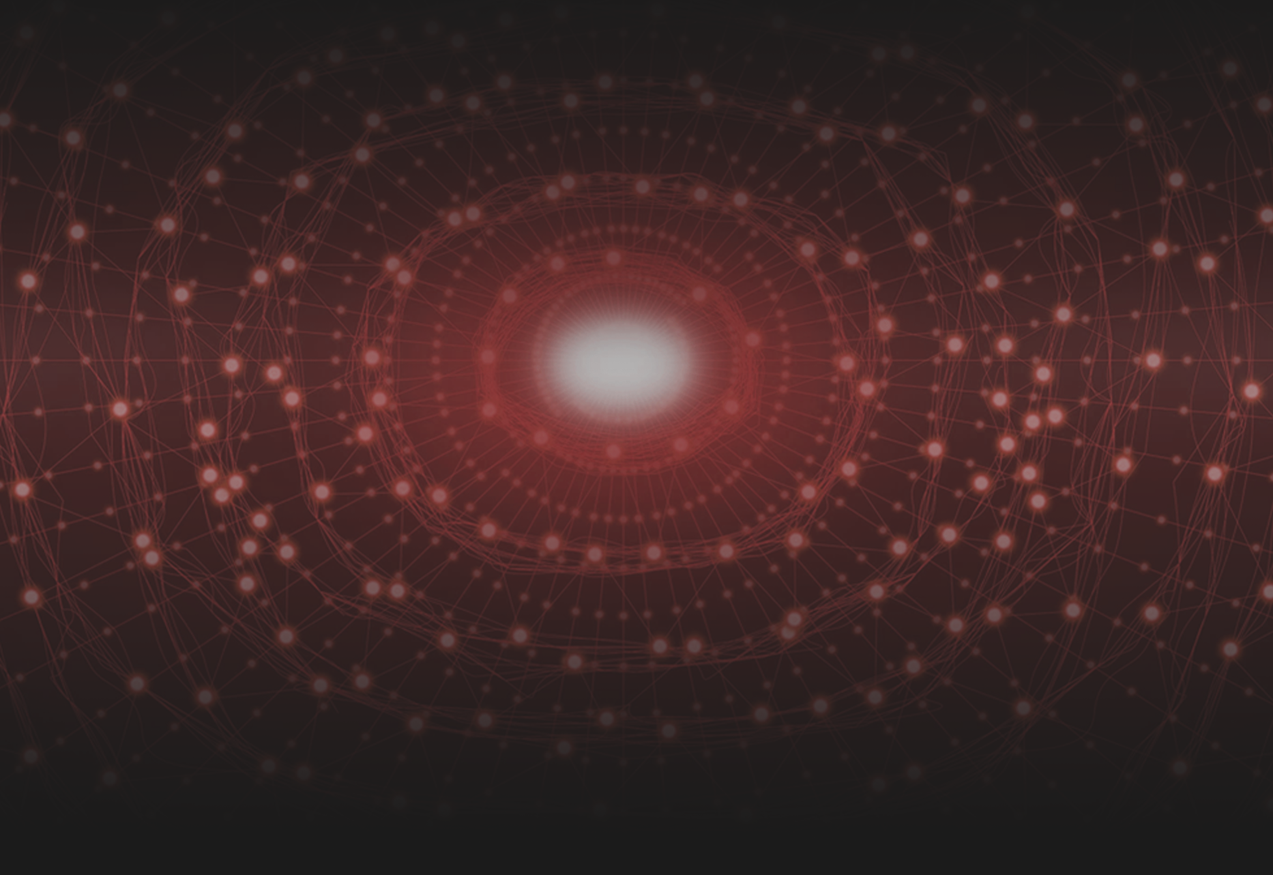
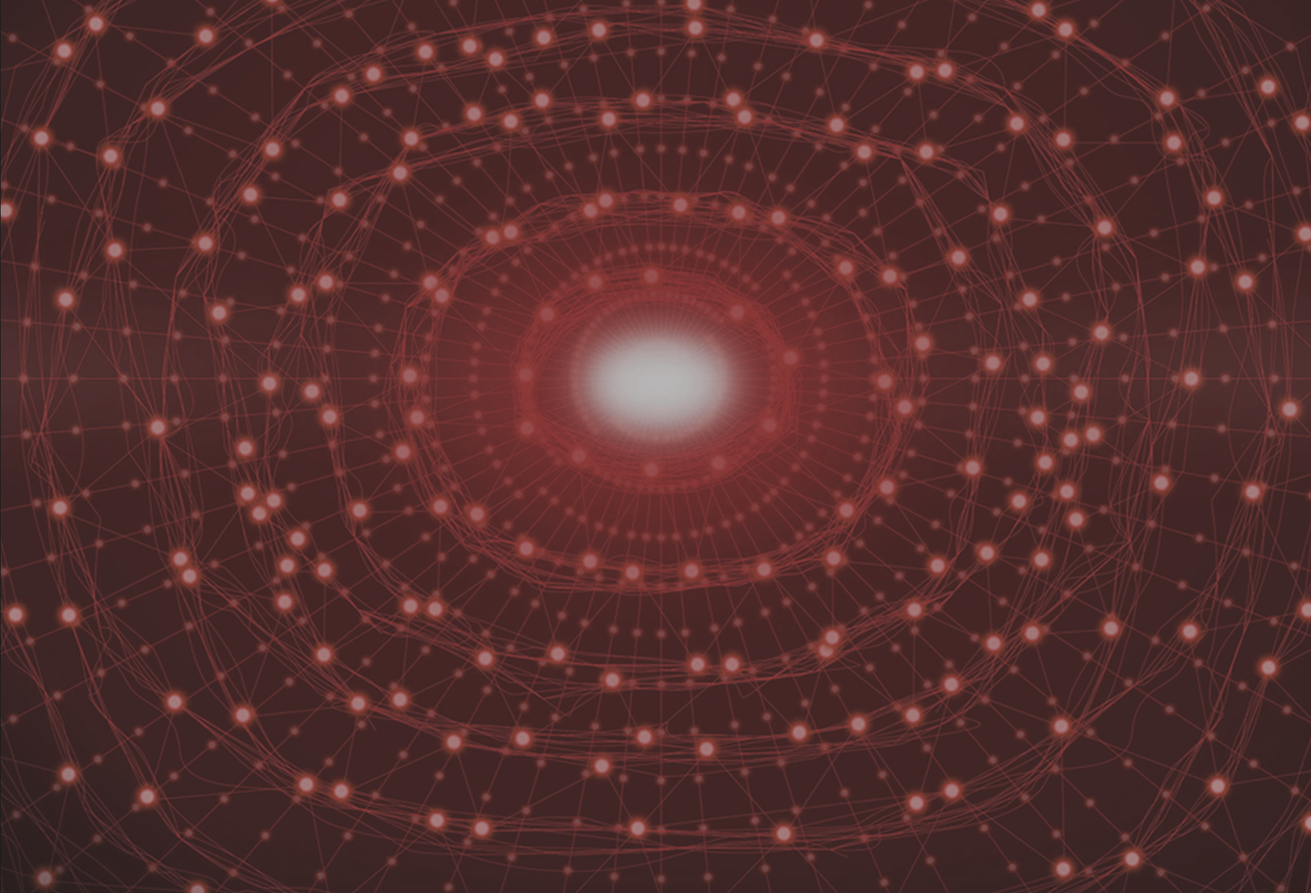
update cquared

diff --git a/smart/cquared/css/style.min.css b/smart/cquared/css/style.min.css
@@ -1,3 +1,3 @@
-/*! normalize.css v8.0.1 | MIT License | github.com/necolas/normalize.css */html{line-height:1.15;-webkit-text-size-adjust:100%}body{margin:0}main{display:block}h1{font-size:2em;margin:0.67em 0}hr{-webkit-box-sizing:content-box;box-sizing:content-box;height:0;overflow:visible}pre{font-family:monospace, monospace;font-size:1em}a{background-color:transparent}abbr[title]{border-bottom:none;text-decoration:underline;-webkit-text-decoration:underline dotted;text-decoration:underline dotted}b,strong{font-weight:bolder}code,kbd,samp{font-family:monospace, monospace;font-size:1em}small{font-size:80%}sub,sup{font-size:75%;line-height:0;position:relative;vertical-align:baseline}sub{bottom:-0.25em}sup{top:-0.5em}img{border-style:none}button,input,optgroup,select,textarea{font-family:inherit;font-size:100%;line-height:1.15;margin:0}button,input{overflow:visible}button,select{text-transform:none}button,[type="button"],[type="reset"],[type="submit"]{-webkit-appearance:button}button::-moz-focus-inner,[type="button"]::-moz-focus-inner,[type="reset"]::-moz-focus-inner,[type="submit"]::-moz-focus-inner{border-style:none;padding:0}button:-moz-focusring,[type="button"]:-moz-focusring,[type="reset"]:-moz-focusring,[type="submit"]:-moz-focusring{outline:1px dotted ButtonText}fieldset{padding:0.35em 0.75em 0.625em}legend{-webkit-box-sizing:border-box;box-sizing:border-box;color:inherit;display:table;max-width:100%;padding:0;white-space:normal}progress{vertical-align:baseline}textarea{overflow:auto}[type="checkbox"],[type="radio"]{-webkit-box-sizing:border-box;box-sizing:border-box;padding:0}[type="number"]::-webkit-inner-spin-button,[type="number"]::-webkit-outer-spin-button{height:auto}[type="search"]{-webkit-appearance:textfield;outline-offset:-2px}[type="search"]::-webkit-search-decoration{-webkit-appearance:none}::-webkit-file-upload-button{-webkit-appearance:button;font:inherit}details{display:block}summary{display:list-item}template{display:none}[hidden]{display:none}@font-face{font-family:"MagistralC";font-weight:400;font-style:normal;src:local(SourceSansPro),url("../fonts/MagistralC.woff2") format("woff2"),url("../fonts/MagistralC.woff") format("woff"),url("../fonts/MagistralC.ttf") format("ttf");font-display:swap}@font-face{font-family:"SourceSansPro";font-weight:400;font-style:normal;src:local(SourceSansPro),url("../fonts/Source_Sans_Pro/SourceSansPro-Regular.woff2") format("woff2"),url("../fonts/Source_Sans_Pro/SourceSansPro-Regular.woff") format("woff"),url("../fonts/Source_Sans_Pro/SourceSansPro-Regular.ttf") format("ttf");font-display:swap}@font-face{font-family:"SourceSansPro";font-weight:700;font-style:normal;src:local(SourceSansPro-Bold),url("../fonts/Source_Sans_Pro/SourceSansPro-Regular.woff2") format("woff2"),url("../fonts/Source_Sans_Pro/SourceSansPro-Regular.woff") format("woff"),url("../fonts/Source_Sans_Pro/SourceSansPro-Regular.ttf") format("ttf");font-display:swap}@font-face{font-family:"Montserrat";font-weight:400;font-style:normal;src:local(Montserrat),url("../fonts/Montserrat/Montserrat-Regular.woff2") format("woff2"),url("../fonts/Montserrat/Montserrat-Regular.woff") format("woff"),url("../fonts/Montserrat/Montserrat-Regular.ttf") format("ttf");font-display:swap}@font-face{font-family:"Montserrat";font-weight:700;font-style:normal;src:local(Montserrat-Bold),url("../fonts/Montserrat/Montserrat-Bold.woff2") format("woff2"),url("../fonts/Montserrat/Montserrat-Bold.woff") format("woff"),url("../fonts/Montserrat/Montserrat-Bold.ttf") format("ttf");font-display:swap}@font-face{font-family:"SourceSansPro";font-weight:300;font-style:normal;src:local(SourceSansPro-Light),url("../fonts/Source_Sans_Pro/SourceSansPro-Light.woff2") format("woff2"),url("../fonts/Source_Sans_Pro/SourceSansPro-Light.woff") format("woff"),url("../fonts/Source_Sans_Pro/SourceSansPro-Light.ttf") format("ttf");font-display:swap}html{-webkit-box-sizing:border-box;box-sizing:border-box}*,*::before,*::after{-webkit-box-sizing:inherit;box-sizing:inherit}html,body{height:100%;position:relative}body{color:#fff;background-color:#1b1b1b;font-size:15px;font-family:"SourceSansPro",sans-serif;font-weight:400}.container{max-width:1110px;width:100%;padding:0 15px;margin:0 auto}h1,h2,h3{margin:0;font-weight:400;font-size:inherit}p{margin:0}a{color:inherit}ul{list-style:none;padding:0;margin:0}.link{-webkit-transition:.05s color;transition:.05s color}.link:hover,.link:focus,.link:active{color:#9e0813;outline:0}.link_red{color:#9e0813}.link_red:hover,.link_red:focus,.link_red:active{color:#c00a17;outline:0}.btn{padding:10px 15px;width:210px;font-family:"Montserrat",sans-serif;font-size:20px;background:#87000e linear-gradient(40deg, #b8000e 0%, #87000e 100%);-webkit-box-shadow:0px 0px 10.45px 0.55px rgba(0,0,0,0.35);box-shadow:0px 0px 10.45px 0.55px rgba(0,0,0,0.35);color:#fff;text-align:center;border:0;text-decoration:none;cursor:pointer;-webkit-transition:opacity ease-in-out .5s;transition:opacity ease-in-out .5s;position:relative;z-index:1}.btn::before{background:#b8000e linear-gradient(40deg, #d20010 0%, #a10011 100%);opacity:0;content:'';display:block;width:100%;height:100%;position:absolute;top:0;left:0;z-index:-1;-webkit-transition:opacity ease-in-out .5s;transition:opacity ease-in-out .5s}.btn:hover::before,.btn:focus::before{opacity:1}.btn_invalid{background:#767676;color:#1b1b1b;cursor:not-allowed}.btn_invalid:hover{background:#5d5d5d;color:#353535}.btn_invalid::before{display:none}.btn-wrap{margin-top:100px}.btn-wrap .btn{display:block;margin:0 auto}button.btn{width:auto;min-width:210px}.logo__other-logo-wrap{display:-webkit-box;display:-ms-flexbox;display:flex}.logo__other-logo+.logo__other-logo{margin-left:20px}.logo__img-wrap{width:68px;height:68px;-webkit-box-shadow:2px 3px 7px 0px rgba(0,0,0,0.35);box-shadow:2px 3px 7px 0px rgba(0,0,0,0.35)}.items-flex{display:-webkit-box;display:-ms-flexbox;display:flex;-webkit-box-pack:justify;-ms-flex-pack:justify;justify-content:space-between}.items-flex__item{text-align:center}.img-wrap img{display:block;margin:0 auto}.section{padding-bottom:250px}.section-title{font-family:"Montserrat",sans-serif;font-size:30px;font-weight:700;text-align:center;margin-bottom:95px}.section-text{font-size:20px}.card{line-height:20px;background-color:rgba(27,27,27,0.7);width:230px;height:230px;padding:45px 15px 0}.card__img-wrap{margin-bottom:25px}.card__title{text-align:center;font-size:20px;margin-bottom:20px}.row{display:-webkit-box;display:-ms-flexbox;display:flex}.row-flex-start{-webkit-box-pack:start;-ms-flex-pack:start;justify-content:flex-start}.row-flex-end{-webkit-box-pack:end;-ms-flex-pack:end;justify-content:flex-end}.row-center{-webkit-box-pack:center;-ms-flex-pack:center;justify-content:center}.wrapper-center-content{max-width:730px;margin:0 auto}.slider{position:relative}.slider .slick-dots{list-style:none;position:absolute;bottom:0;width:100%;margin-bottom:40px;display:-webkit-box;display:-ms-flexbox;display:flex;-webkit-box-pack:center;-ms-flex-pack:center;justify-content:center}.slider .slick-dots li{display:inline-block}.slider .slick-dots li+li{margin-left:14px}.slider .slick-dots button{font-size:0;border:1px solid #87000e;background-color:transparent;width:13px;height:13px;padding:0;cursor:pointer}.slider .slick-dots .slick-active button{background-color:#87000e}.slider .slick-arrow{position:absolute;top:50%;z-index:2;padding:0;width:52px;height:52px;border:1px solid #87000e;background:transparent;-webkit-transition:.3s;transition:.3s;cursor:pointer}.slider .slick-arrow::before{content:'';background:url("../img/slider/arrowLeft.svg") no-repeat 50% 50%;background-size:100%;width:100%;height:100%;position:absolute;top:0;left:0}.slider .slick-arrow:hover,.slider .slick-arrow:focus{background:rgba(135,0,14,0.2)}.slider .slick-arrow.slick-prev{left:30px}.slider .slick-arrow.slick-next{right:30px}.slider .slick-arrow.slick-next::before{background-image:url("../img/slider/arrowRight.svg")}.mark{color:#87000e}.form__label{display:inline-block;position:relative}.form__label-textarea{height:100%}.form__label-input+.form__label-input{margin-top:20px}.form__input,.form__textarea{border:0;outline:0;background:#fff;-webkit-box-shadow:0 3px 7px 0 rgba(0,0,0,0.35);box-shadow:0 3px 7px 0 rgba(0,0,0,0.35);color:#000}.form__input{width:230px;padding:12px}.form__textarea{width:480px;height:100%;padding:12px 15px;resize:none}.form .fake-placeholder{position:absolute;top:12px;left:12px;color:#aaa;-webkit-user-select:none;-moz-user-select:none;-ms-user-select:none;cursor:text}.form__label-textarea .fake-placeholder{left:15px}.form__input::-webkit-input-placeholder,.form__textarea::-webkit-input-placeholder{color:#aaa;font-size:15px}.form__input:-ms-input-placeholder,.form__textarea:-ms-input-placeholder{color:#aaa;font-size:15px}.form__input::-ms-input-placeholder,.form__textarea::-ms-input-placeholder{color:#aaa;font-size:15px}.form__input::placeholder,.form__textarea::placeholder{color:#aaa;font-size:15px}.topscreen-wrap{background:url("../img/topscreen/bg.jpg") no-repeat 50% 0;background-size:cover}.header__inner{display:-webkit-box;display:-ms-flexbox;display:flex;-webkit-box-align:center;-ms-flex-align:center;align-items:center;-webkit-box-pack:justify;-ms-flex-pack:justify;justify-content:space-between;padding:20px 0}.header-menu__ul{display:-webkit-box;display:-ms-flexbox;display:flex}.header-menu__item+.header-menu__item{margin-left:40px}.header-tools{display:-webkit-box;display:-ms-flexbox;display:flex}.header-tools__tel-wrap{margin-left:45px}.topscreen{padding-bottom:160px;font-size:20px}.topscreen__title{text-align:center;font-size:36px;margin:105px 0 65px;text-shadow:0 0 8px #1b1b1b}.topscreen__title-name{font-size:46px}.topscreen-directions{max-width:690px;margin:0 auto}.topscreen-directions-item{max-width:220px}.topscreen-directions-item__img-wrap{margin-bottom:25px}.progress{background:url("../img/progress/bg.png") no-repeat 45% 0;background-size:cover;padding-bottom:500px;font-size:20px}.progress__items{margin-bottom:130px}.progress-item{max-width:165px;text-align:center}.progress-item__counter{font-family:"Montserrat",sans-serif;font-size:30px;font-weight:700;color:#b8000e;margin-bottom:20px}.progress__text-wrap{max-width:570px;line-height:30px}.proposes{background:url("../img/proposes/bg.png") no-repeat 50% 0;background-size:cover}.proposes__inner{margin-bottom:-20px}.proposes__row{margin-left:-20px}.proposes-item{margin:0 0 20px 20px}.projects-item__img{width:100%}.reviews{background:url("../img/reviews/bg.png") no-repeat 0 0;background-size:cover}.reviews__inner{max-width:445px;margin-left:auto;margin-right:95px}.reviews-item{line-height:20px;padding:45px 95px 50px;background-color:rgba(27,27,27,0.7)}.reviews-item__text{font-size:18px;line-height:22px}.reviews-item__author{margin-top:20px;line-height:18px}.reviews .slick-arrow{width:32px;height:32px}.reviews .slick-dots{margin-bottom:19px}.reviews__btn-wrap{margin-top:80px}.process{background:url("../img/process/bg.png") no-repeat 50% 0;background-size:cover}.process__row{display:-webkit-box;display:-ms-flexbox;display:flex;-ms-flex-wrap:wrap;flex-wrap:wrap}.process-item-2{margin:108px 0 0 20px}.process-item-3{margin:216px 0 0 20px}.process-item-4{margin:20px 0 0 auto}.process-item-5{margin:-108px auto 0}.partners{padding-bottom:60px}.partners__inner{-webkit-box-align:end;-ms-flex-align:end;align-items:flex-end}.partners-item{max-width:190px}.partners-item img{margin:0;width:100%;height:110px}.request{background:url("../img/request/bg.jpg") no-repeat 50% 0;background-size:cover;padding:115px 0 180px}.request-form{text-align:center}.request-form__descr{margin:25px 0 13px}.request-form__label-checkbox{margin-bottom:40px}.request-form__col-inputs{width:230px}.request-form__btn{display:block;margin:0 auto}.contacts{padding-bottom:60px;font-size:20px}.contacts__inner{margin-left:95px}.contacts-data{margin:50px 0}.contacts-data-item{display:-webkit-box;display:-ms-flexbox;display:flex;-webkit-box-align:center;-ms-flex-align:center;align-items:center}.contacts-data-item+.contacts-data-item{margin-top:20px}.contacts-data-item__icon-wrap{margin-right:30px;min-width:45px}.contacts-data-item__lnk{text-decoration:none}.contacts-data-item__lnk:hover{text-decoration:underline}.contacts-map{width:635px}.contacts-map__iframe{width:100%;height:350px;border:0}.contacts__btn{margin:0}.footer{background:url("../img/footer/bg.png") no-repeat 50% 0;background-size:cover;padding-top:190px}.footer__inner{display:-webkit-box;display:-ms-flexbox;display:flex;-webkit-box-pack:justify;-ms-flex-pack:justify;justify-content:space-between;-webkit-box-align:center;-ms-flex-align:center;align-items:center;padding-bottom:25px;margin:0 auto 0 95px}.footer__other-logo-wrap{margin-top:20px}.footer__copyright{font-size:18px;text-align:center;padding-bottom:20px}.footer-menu__ul{display:-webkit-box;display:-ms-flexbox;display:flex;-webkit-box-pack:justify;-ms-flex-pack:justify;justify-content:space-between;-ms-flex-wrap:wrap;flex-wrap:wrap;max-width:320px;margin-bottom:-30px}.footer-menu__item{width:50%;margin-bottom:30px}
+/*! normalize.css v8.0.1 | MIT License | github.com/necolas/normalize.css */html{line-height:1.15;-webkit-text-size-adjust:100%}body{margin:0}main{display:block}h1{font-size:2em;margin:0.67em 0}hr{-webkit-box-sizing:content-box;box-sizing:content-box;height:0;overflow:visible}pre{font-family:monospace, monospace;font-size:1em}a{background-color:transparent}abbr[title]{border-bottom:none;text-decoration:underline;-webkit-text-decoration:underline dotted;text-decoration:underline dotted}b,strong{font-weight:bolder}code,kbd,samp{font-family:monospace, monospace;font-size:1em}small{font-size:80%}sub,sup{font-size:75%;line-height:0;position:relative;vertical-align:baseline}sub{bottom:-0.25em}sup{top:-0.5em}img{border-style:none}button,input,optgroup,select,textarea{font-family:inherit;font-size:100%;line-height:1.15;margin:0}button,input{overflow:visible}button,select{text-transform:none}button,[type="button"],[type="reset"],[type="submit"]{-webkit-appearance:button}button::-moz-focus-inner,[type="button"]::-moz-focus-inner,[type="reset"]::-moz-focus-inner,[type="submit"]::-moz-focus-inner{border-style:none;padding:0}button:-moz-focusring,[type="button"]:-moz-focusring,[type="reset"]:-moz-focusring,[type="submit"]:-moz-focusring{outline:1px dotted ButtonText}fieldset{padding:0.35em 0.75em 0.625em}legend{-webkit-box-sizing:border-box;box-sizing:border-box;color:inherit;display:table;max-width:100%;padding:0;white-space:normal}progress{vertical-align:baseline}textarea{overflow:auto}[type="checkbox"],[type="radio"]{-webkit-box-sizing:border-box;box-sizing:border-box;padding:0}[type="number"]::-webkit-inner-spin-button,[type="number"]::-webkit-outer-spin-button{height:auto}[type="search"]{-webkit-appearance:textfield;outline-offset:-2px}[type="search"]::-webkit-search-decoration{-webkit-appearance:none}::-webkit-file-upload-button{-webkit-appearance:button;font:inherit}details{display:block}summary{display:list-item}template{display:none}[hidden]{display:none}@font-face{font-family:"MagistralC";font-weight:400;font-style:normal;src:local(SourceSansPro),url("../fonts/MagistralC.woff2") format("woff2"),url("../fonts/MagistralC.woff") format("woff"),url("../fonts/MagistralC.ttf") format("ttf");font-display:swap}@font-face{font-family:"SourceSansPro";font-weight:400;font-style:normal;src:local(SourceSansPro),url("../fonts/Source_Sans_Pro/SourceSansPro-Regular.woff2") format("woff2"),url("../fonts/Source_Sans_Pro/SourceSansPro-Regular.woff") format("woff"),url("../fonts/Source_Sans_Pro/SourceSansPro-Regular.ttf") format("ttf");font-display:swap}@font-face{font-family:"SourceSansPro";font-weight:700;font-style:normal;src:local(SourceSansPro-Bold),url("../fonts/Source_Sans_Pro/SourceSansPro-Regular.woff2") format("woff2"),url("../fonts/Source_Sans_Pro/SourceSansPro-Regular.woff") format("woff"),url("../fonts/Source_Sans_Pro/SourceSansPro-Regular.ttf") format("ttf");font-display:swap}@font-face{font-family:"Montserrat";font-weight:400;font-style:normal;src:local(Montserrat),url("../fonts/Montserrat/Montserrat-Regular.woff2") format("woff2"),url("../fonts/Montserrat/Montserrat-Regular.woff") format("woff"),url("../fonts/Montserrat/Montserrat-Regular.ttf") format("ttf");font-display:swap}@font-face{font-family:"Montserrat";font-weight:700;font-style:normal;src:local(Montserrat-Bold),url("../fonts/Montserrat/Montserrat-Bold.woff2") format("woff2"),url("../fonts/Montserrat/Montserrat-Bold.woff") format("woff"),url("../fonts/Montserrat/Montserrat-Bold.ttf") format("ttf");font-display:swap}@font-face{font-family:"SourceSansPro";font-weight:300;font-style:normal;src:local(SourceSansPro-Light),url("../fonts/Source_Sans_Pro/SourceSansPro-Light.woff2") format("woff2"),url("../fonts/Source_Sans_Pro/SourceSansPro-Light.woff") format("woff"),url("../fonts/Source_Sans_Pro/SourceSansPro-Light.ttf") format("ttf");font-display:swap}html{-webkit-box-sizing:border-box;box-sizing:border-box}*,*::before,*::after{-webkit-box-sizing:inherit;box-sizing:inherit}html,body{height:100%;position:relative}body{color:#fff;background-color:#1b1b1b;font-size:15px;font-family:"SourceSansPro",sans-serif;font-weight:400}.container{max-width:1110px;width:100%;padding:0 15px;margin:0 auto}h1,h2,h3{margin:0;font-weight:400;font-size:inherit}p{margin:0}a{color:inherit}ul{list-style:none;padding:0;margin:0}.link{-webkit-transition:.05s color;transition:.05s color}.link:hover,.link:focus,.link:active{color:#9e0813;outline:0}.link_red{color:#9e0813}.link_red:hover,.link_red:focus,.link_red:active{color:#c00a17;outline:0}.btn{padding:10px 15px;width:210px;font-family:"Montserrat",sans-serif;font-size:20px;background:#87000e linear-gradient(40deg, #b8000e 0%, #87000e 100%);-webkit-box-shadow:0px 0px 10.45px 0.55px rgba(0,0,0,0.35);box-shadow:0px 0px 10.45px 0.55px rgba(0,0,0,0.35);color:#fff;text-align:center;border:0;text-decoration:none;cursor:pointer;-webkit-transition:opacity ease-in-out .5s;transition:opacity ease-in-out .5s;position:relative;z-index:1}.btn::before{background:#b8000e linear-gradient(40deg, #d20010 0%, #a10011 100%);opacity:0;content:'';display:block;width:100%;height:100%;position:absolute;top:0;left:0;z-index:-1;-webkit-transition:opacity ease-in-out .5s;transition:opacity ease-in-out .5s}.btn:hover::before,.btn:focus::before{opacity:1}.btn_invalid{background:#767676;color:#1b1b1b;cursor:not-allowed}.btn_invalid:hover{background:#5d5d5d;color:#353535}.btn_invalid::before{display:none}.btn-wrap{margin-top:100px}.btn-wrap .btn{display:block;margin:0 auto}button.btn{width:auto;min-width:210px}.logo__other-logo-wrap{display:-webkit-box;display:-ms-flexbox;display:flex}.logo__other-logo+.logo__other-logo{margin-left:20px}.logo__img-wrap{width:68px;height:68px;-webkit-box-shadow:2px 3px 7px 0px rgba(0,0,0,0.35);box-shadow:2px 3px 7px 0px rgba(0,0,0,0.35)}.menu{font-weight:300}.items-flex{display:-webkit-box;display:-ms-flexbox;display:flex;-webkit-box-pack:justify;-ms-flex-pack:justify;justify-content:space-between;-ms-flex-wrap:wrap;flex-wrap:wrap}.items-flex__item{text-align:center}.img-wrap img{display:block;margin:0 auto}.section{padding-bottom:250px}.section-title{font-family:"Montserrat",sans-serif;font-size:30px;font-weight:700;text-align:center;margin-bottom:95px}.section-text{font-size:20px}.card{line-height:20px;background-color:rgba(27,27,27,0.7);-webkit-box-shadow:0 0 7px 0 #fff;box-shadow:0 0 7px 0 #fff;width:230px;height:230px;padding:45px 15px 0}.card__img-wrap{margin-bottom:25px}.card__title{text-align:center;font-size:20px;margin-bottom:20px}.card__text{font-weight:300}.row{display:-webkit-box;display:-ms-flexbox;display:flex}.row-flex-start{-webkit-box-pack:start;-ms-flex-pack:start;justify-content:flex-start}.row-flex-end{-webkit-box-pack:end;-ms-flex-pack:end;justify-content:flex-end}.row-center{-webkit-box-pack:center;-ms-flex-pack:center;justify-content:center}.wrapper-center-content{max-width:730px;margin:0 auto}.slider{position:relative}.slider .slick-dots{list-style:none;position:absolute;bottom:0;width:100%;margin-bottom:40px;display:-webkit-box;display:-ms-flexbox;display:flex;-webkit-box-pack:center;-ms-flex-pack:center;justify-content:center}.slider .slick-dots li{display:inline-block}.slider .slick-dots li+li{margin-left:14px}.slider .slick-dots button{font-size:0;border:1px solid #87000e;background-color:transparent;width:13px;height:13px;padding:0;cursor:pointer}.slider .slick-dots .slick-active button{background-color:#87000e}.slider .slick-arrow{position:absolute;top:50%;z-index:2;padding:0;width:52px;height:52px;border:1px solid #87000e;background:transparent;-webkit-transition:.3s;transition:.3s;cursor:pointer}.slider .slick-arrow::before{content:'';background:url("../img/slider/arrowLeft.svg") no-repeat 50% 50%;background-size:100%;width:100%;height:100%;position:absolute;top:0;left:0}.slider .slick-arrow:hover,.slider .slick-arrow:focus{background:rgba(135,0,14,0.2)}.slider .slick-arrow.slick-prev{left:30px}.slider .slick-arrow.slick-next{right:30px}.slider .slick-arrow.slick-next::before{background-image:url("../img/slider/arrowRight.svg")}.mark{color:#b8000e}.bg-box-shadow{-webkit-box-shadow:inset 0 -67px 40px 0 #1b1b1b, inset 0 67px 40px 0 #1b1b1b;box-shadow:inset 0 -67px 40px 0 #1b1b1b, inset 0 67px 40px 0 #1b1b1b}.form__label{display:inline-block;position:relative}.form__label-textarea{height:100%}.form__label-input+.form__label-input{margin-top:20px}.form__input,.form__textarea{border:0;outline:0;background:#fff;-webkit-box-shadow:0 3px 7px 0 rgba(0,0,0,0.35);box-shadow:0 3px 7px 0 rgba(0,0,0,0.35);color:#000}.form__input{width:230px;padding:12px}.form__textarea{width:480px;height:100%;padding:12px 15px;resize:none}.form .fake-placeholder{position:absolute;top:12px;left:12px;color:#656565;-webkit-user-select:none;-moz-user-select:none;-ms-user-select:none;cursor:text}.form__label-textarea .fake-placeholder{left:15px}.form__input::-webkit-input-placeholder,.form__textarea::-webkit-input-placeholder{color:#656565;font-size:15px}.form__input:-ms-input-placeholder,.form__textarea:-ms-input-placeholder{color:#656565;font-size:15px}.form__input::-ms-input-placeholder,.form__textarea::-ms-input-placeholder{color:#656565;font-size:15px}.form__input::placeholder,.form__textarea::placeholder{color:#656565;font-size:15px}.topscreen-wrap{background:url(../img/topscreen/bg.jpg) no-repeat 50% 26%}.header__inner{display:-webkit-box;display:-ms-flexbox;display:flex;-webkit-box-align:center;-ms-flex-align:center;align-items:center;-webkit-box-pack:justify;-ms-flex-pack:justify;justify-content:space-between;padding:20px 0}.header-menu__ul{display:-webkit-box;display:-ms-flexbox;display:flex}.header-menu__item+.header-menu__item{margin-left:40px}.header-tools{display:-webkit-box;display:-ms-flexbox;display:flex}.header-tools__tel-wrap{margin-left:45px}.topscreen{padding-bottom:160px;font-size:20px}.topscreen__title{text-align:center;font-size:36px;margin:105px 0 65px;text-shadow:0 0 8px #1b1b1b}.topscreen__title-name{font-size:46px}.topscreen-directions{max-width:690px;margin:0 auto}.topscreen-directions-item{max-width:220px}.topscreen-directions-item__img-wrap{margin-bottom:25px}.progress{background:url("../img/progress/bg.png") no-repeat 45% 0;background-size:cover;padding-bottom:500px;font-size:20px}.progress__items{margin-bottom:130px}.progress-item{max-width:165px;text-align:center}.progress-item__counter{font-family:"Montserrat",sans-serif;font-size:30px;font-weight:700;color:#b8000e;margin-bottom:20px}.progress__text-wrap{max-width:570px;line-height:30px}.proposes{background:url("../img/proposes/bg.png") no-repeat 50% 0;background-size:cover}.proposes__inner{margin-bottom:-20px}.proposes__row{margin-left:-20px}.proposes-item{margin:0 0 20px 20px}.projects-item__img{width:100%}.reviews{background:url("../img/reviews/bg.png") no-repeat 0 0;background-size:cover}.reviews__inner{max-width:445px;margin-left:auto;margin-right:95px}.reviews__slider{-webkit-box-shadow:0 0 7px 0 #fff;box-shadow:0 0 7px 0 #fff}.reviews-item{line-height:20px;padding:45px 95px 50px;background-color:rgba(27,27,27,0.7)}.reviews-item__text{font-size:18px;line-height:22px}.reviews-item__author{margin-top:20px;line-height:18px;font-weight:300}.reviews .slick-arrow{width:32px;height:32px}.reviews .slick-dots{margin-bottom:19px}.reviews__btn-wrap{margin-top:80px}.process{background:url("../img/process/bg.png") no-repeat 50% 0;background-size:cover}.process__row{display:-webkit-box;display:-ms-flexbox;display:flex;-ms-flex-wrap:wrap;flex-wrap:wrap}.process-item-2{margin:108px 0 0 20px}.process-item-3{margin:216px 0 0 20px}.process-item-4{margin:20px 0 0 auto}.process-item-5{margin:-108px auto 0}.partners{padding-bottom:60px}.partners__inner{-webkit-box-align:end;-ms-flex-align:end;align-items:flex-end}.partners-item{max-width:190px}.partners-item img{margin:0;width:100%;height:110px}.request{background:url("../img/request/bg.jpg") no-repeat 50% 0;background-size:cover;padding:115px 0 180px}.request-form{text-align:center}.request-form__descr{margin:25px 0 13px}.request-form__label-checkbox{margin-bottom:40px}.request-form__col-inputs{width:230px}.request-form__btn{display:block;margin:0 auto}.contacts{padding-bottom:60px;font-size:20px}.contacts__inner{margin-left:95px}.contacts-data{margin:50px 0}.contacts-data-item{display:-webkit-box;display:-ms-flexbox;display:flex;-webkit-box-align:center;-ms-flex-align:center;align-items:center}.contacts-data-item+.contacts-data-item{margin-top:20px}.contacts-data-item__icon-wrap{margin-right:30px;min-width:45px}.contacts-data-item__lnk{text-decoration:none}.contacts-data-item__lnk:hover{text-decoration:underline}.contacts-data-wrap{margin-right:20px}.contacts-map{width:635px}.contacts-map__iframe{width:100%;height:350px;border:0}.contacts__btn{margin:0}.footer{background:url("../img/footer/bg.png") no-repeat 50% 0;background-size:cover;padding-top:190px}.footer__inner{display:-webkit-box;display:-ms-flexbox;display:flex;-webkit-box-pack:justify;-ms-flex-pack:justify;justify-content:space-between;-webkit-box-align:center;-ms-flex-align:center;align-items:center;padding-bottom:25px;margin:0 auto 0 95px}.footer__other-logo-wrap{margin-top:20px}.footer__copyright{font-size:18px;text-align:center;padding-bottom:20px}.footer-menu__ul{display:-webkit-box;display:-ms-flexbox;display:flex;-webkit-box-pack:justify;-ms-flex-pack:justify;justify-content:space-between;-ms-flex-wrap:wrap;flex-wrap:wrap;max-width:320px;margin-bottom:-30px}.footer-menu__item{width:50%;margin-bottom:30px}
 
 /*# sourceMappingURL=style.min.css.map */

diff --git a/smart/cquared/scss/style.scss b/smart/cquared/scss/style.scss
@@ -127,14 +127,16 @@ button.btn {
 	box-shadow: 2px 3px 7px 0px rgba(#000, 0.35);
 	}
 }
-.logo__img-wrap {
-	
+
+.menu {
+	font-weight: 300;
 }
 
 
 .items-flex {
 	display: flex;
 	justify-content: space-between;
+	flex-wrap: wrap;
 
 	&__item {
 		text-align: center;
@@ -171,6 +173,8 @@ button.btn {
 	line-height: 20px;
 
 	background-color: rgba(27, 27, 27, .7);
+	box-shadow: 0 0 7px 0 #fff;
+
 	width: 230px;
 	height: 230px;
 	padding: 45px 15px 0;
@@ -183,6 +187,10 @@ button.btn {
 		text-align: center;
 		font-size: 20px;
 		margin-bottom: 20px;
+	}
+
+	&__text {
+		font-weight: 300;
 	}
 }
 
@@ -302,7 +310,12 @@ button.btn {
 
 
 .mark {
-	color: $color-main-darken;
+	color: $color-main;
+}
+
+.bg-box-shadow {
+	box-shadow: inset 0 -67px 40px 0 #1b1b1b,
+	    				inset 0 67px 40px 0 #1b1b1b;
 }
 
 
@@ -350,7 +363,7 @@ button.btn {
 		top: 12px;
 		left: 12px;
 
-    color: #aaa;
+    color: #656565;
 		
 		-webkit-user-select: none;
     -moz-user-select: none;
@@ -364,7 +377,7 @@ button.btn {
 
 	&__input::placeholder,
 	&__textarea::placeholder {
-		color: #aaa;
+		color: #656565;
 		font-size: 15px;
 	}
 }
@@ -376,8 +389,7 @@ button.btn {
 //////////////// SECTIONS ////////////////
 
 .topscreen-wrap {
-	background: url("../img/topscreen/bg.jpg") no-repeat 50% 0;
-	background-size: cover;
+	background: url(../img/topscreen/bg.jpg) no-repeat 50% 26%;
 }
 
 
@@ -518,6 +530,10 @@ button.btn {
 		margin-right: 95px;
 	}
 
+	&__slider {
+		box-shadow: 0 0 7px 0 #fff;
+	}
+
 	&-item {
 		line-height: 20px;
 
@@ -533,6 +549,7 @@ button.btn {
 			margin-top: 20px;
 
 			line-height: 18px;
+			font-weight: 300;
 		}
 	}
 
@@ -665,6 +682,10 @@ button.btn {
 					text-decoration: underline;
 				}
 			}
+		}
+
+		&-wrap {
+			margin-right: 20px;
 		}
 	}
 

diff --git a/smart/cquared/index.html b/smart/cquared/index.html
@@ -7,7 +7,7 @@
 	<link rel="stylesheet" href="css/style.min.css">
 </head>
 <body>
-<div class="topscreen-wrap">
+<div class="topscreen-wrap bg-box-shadow">
 <header class="header">
 	<div class="container">
 		<div class="header__inner">
